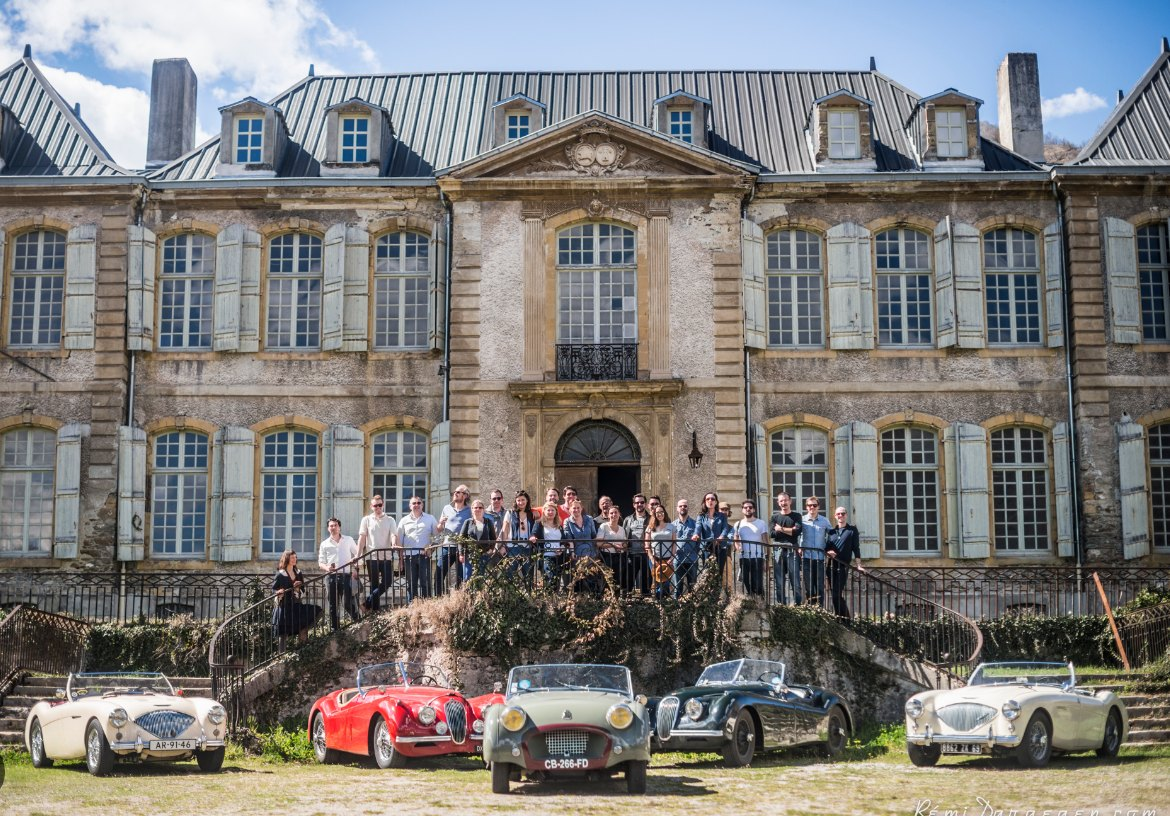
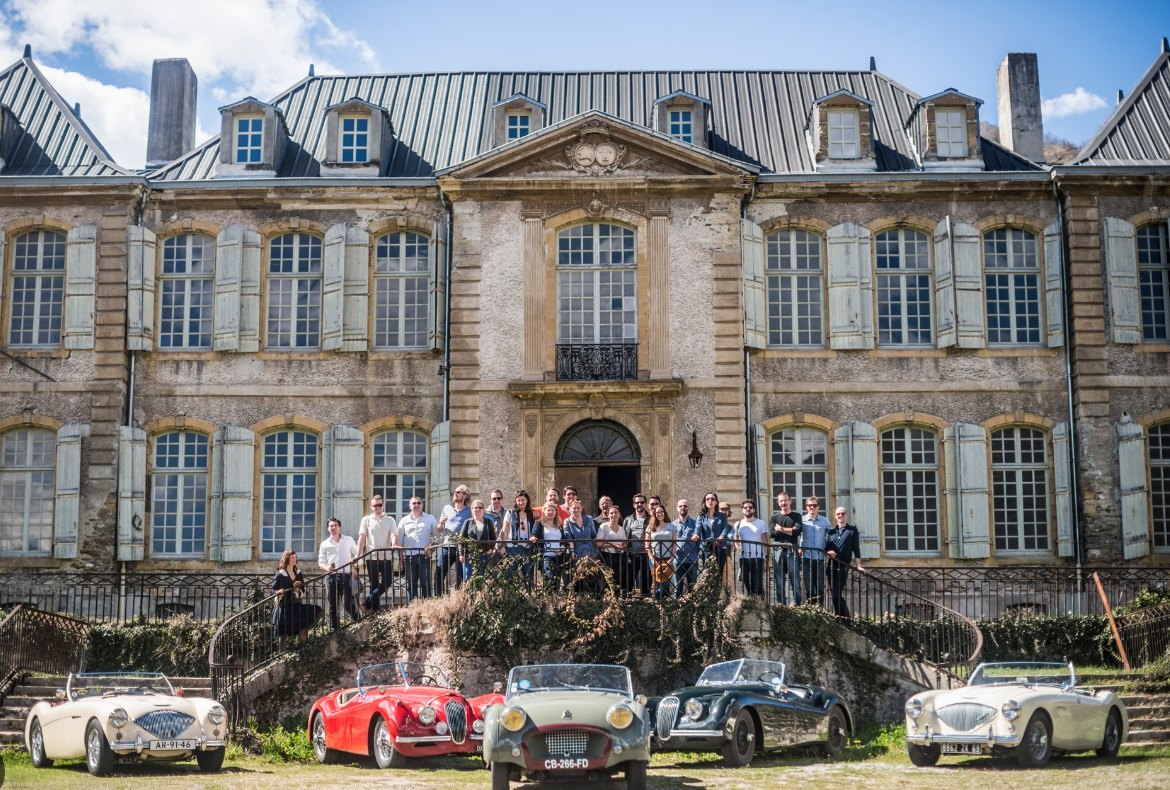
Handover z: How the House Came Back, and the bathrooms quote back
Installed byte for byte from gudanes-handover-z.zip (10 Oct), on top of
handover x; replaces y, never installed. None of these files had changed
since x and the design export. Seven files.

- Restoration: "How the House Came Back", six illustrated steps between
  Why the Walls Stay and Then and Now -- made safe first; power and
  water from the road; the first winter inside (2014, a tent in one of
  the rooms); what the walls gave back; beneath the house; nothing
  thrown away. The timeline gains 2014 and 2020 (the gardens). Sources
  are in a comment above the section.
- _illus.html: a new drawing, "power"; gudanes.css: its styles.
- Home and Stay: the guest quote "Spacious rooms with private,
  well-equipped bathrooms" is back -- the bathrooms are private.
- The room page drops its comment about the terms saying 4pm, fixed in
  the app.
- The classic cars photograph loses the photographer's credit along its
  bottom edge; no credit is needed.

Full run 12836/12836.

diff --git a/templates/restoration.html b/templates/restoration.html
@@ -49,7 +49,9 @@
       <li><b>1741</b><span>The château is built.</span></li>
       <li><b>1994</b><span>Classified a Historic Monument: classé, the highest level of protection in France.</span></li>
       <li><b>2013</b><span>Karina Waters buys it, and the restoration begins.</span></li>
+      <li><b>2014</b><span>The first winter spent inside: no electricity, heating or water yet, and a tent pitched in one of the rooms against the cold.</span></li>
       <li><b>2016</b><span>The restoration receives the Medal of Honour of the Fondation Prince Louis de Polignac, presented by Prince Albert II of Monaco.</span></li>
+      <li><b>2020</b><span>Work begins on bringing back the gardens.</span></li>
       <li><b>Now</b><span>A Class I Historic Monument under restoration, with five bedrooms open to guests, and the workshops.</span></li>
     </ul>
   </div>
@@ -75,6 +77,30 @@
 {#- 9 Oct (owner: "the restoration page need more photos, a better before/after"): three pairs, large and matched, each
     labelled on the photograph. None of the library's pairs is taken from the same spot, so a drag slider would blend two
     different views - side by side is the honest comparison. -#}
+{#- 9 Oct (owner: "more info on the work, from news articles - all new electricity and plumbing from the road and throughout
+    the house, where a large trench was dug"). Sources: the owner (power and water, the trench); Home Beautiful 2024 (the
+    first winter in a tent; the tunnel; the gardens since 2020); Nuvo 2020 (consolidation first; painted walls; wartime
+    hatches; frescoes and ceilings at the back); The Good Life France (trees in the slate); Bird in Flight 2017 (new roof
+    and windows); a guest's account, Molly Wilk (seventeenth-century beams; the table from wind-felled trees); Alex Lalak
+    2024 (doorknobs to roof tiles kept); Studio Beleta (candlelight while the power went in). -#}
+<section class="g-sec g-sec--sand" id="how"><div class="g-wrap">
+  <p class="g-fr">Pas à pas <span class="g-fr__en">Step by step</span></p>
+  <h2 class="g-place">How the House Came Back</h2>
+  <ul class="g-how">
+    {%- for kind, title, text in [
+      ('chateau', 'Made safe first', 'Small trees had taken root in the 300-year-old slate. Before anything else, the floors, walls and ceilings were secured, and the house was given a new roof and new windows.'),
+      ('power', 'Power and water, from the road', 'All the electricity and plumbing is new: brought up from the road through a large trench, then run throughout the house. Until it reached them, many rooms were lit by candle.'),
+      ('bed', 'The first winter inside', 'In the winter of 2014 there was still no electricity, heating or water. The first nights in the château were spent in a tent, pitched inside one of the rooms against the cold.'),
+      ('restoration', 'What the walls gave back', 'Taking away later damage uncovered painted walls; in one bedroom, seventeenth-century painted beams had been plastered over in the eighteenth. At the back of the house were frescoes, ornate ceilings, and the hatches of hiding places used by a family during the Second World War.'),
+      ('candelabra', 'Beneath the house', 'A tunnel runs six metres underground, under a vaulted ceiling; its floor has still not been found. Local legend has an owner escaping down it in a barrel during the War of the Demoiselles, around 1830.'),
+      ('key', 'Nothing thrown away', 'Everything found along the way, from doorknobs to roof tiles, has been kept and used again. A long table was made from trees the wind brought down on the grounds.')] %}
+    <li class="g-how__i">
+      <div class="g-how__ill" aria-hidden="true">{{ illus(kind) }}</div>
+      <div><h3 class="g-how__t">{{ title }}</h3><p class="g-how__d">{{ text }}</p></div>
+    </li>
+    {%- endfor %}
+  </ul>
+</div></section>
 <section class="g-sec g-before-sec" id="before"><div class="g-wrap">
   <p class="g-fr">Avant, après <span class="g-fr__en">Before and now</span></p>
   <h2 class="g-place">Then and Now</h2>

diff --git a/static/gudanes.css b/static/gudanes.css
@@ -10994,3 +10994,12 @@ body.at-top.has-hero .g-top .g-nav a.is-here, body.at-top.has-hero .g-top .g-nav
 .g .g-wscard__inc{ font-size: 14px; }
 .g .g-dossier .g-terms-line, .g .g-dossier .g-foot-note{ font-size: 15px; }
 .g .g-dossier #quote_note, .g .g-dossier .g-quote__l dt .g-opt{ font-size: 14px; }
+
+/* 9 Oct - HOW THE HOUSE CAME BACK (restoration): six illustrated steps, two across on wide screens */
+.g .g-how{ list-style: none; margin: var(--s6) 0 0; padding: 0; display: grid; gap: var(--s6) var(--s7, 56px); }
+@media (min-width: 900px){ .g .g-how{ grid-template-columns: 1fr 1fr; } }
+.g .g-how__i{ display: grid; grid-template-columns: 72px 1fr; gap: var(--s4); align-items: start; }
+.g .g-how__ill{ width: 72px; color: var(--gilt); }
+.g .g-how__t{ margin: .2rem 0 var(--s2); font-family: var(--display); font-weight: 400; font-size: clamp(21px, .5vw + 17px, 25px); line-height: 1.2; color: var(--blue-deep); }
+.g .g-how__d{ margin: 0; font-family: var(--serif); font-size: 17px; line-height: 1.65; color: var(--ink-2); }
+@media (max-width: 600px){ .g .g-how__i{ grid-template-columns: 52px 1fr; gap: var(--s3); } .g .g-how__ill{ width: 52px; } .g .g-how__d{ font-size: 16px; } }

diff --git a/templates/book_rooms.html b/templates/book_rooms.html
@@ -476,10 +476,10 @@
       <figcaption class="g-say__by">A guest<span class="g-say__src">Google</span></figcaption>
     </figure>
     <figure class="g-say">
-      {# Was "Spacious rooms with private, well-equipped bathrooms" - true of that
-         guest's room, but shown as a general claim beside two rooms that share. #}
-      <blockquote class="g-say__q">The breakfast was outstanding, with local produce and fresh fruit.</blockquote>
-      <figcaption class="g-say__by">Cynthia<span class="g-say__src">United States · Booking.com</span></figcaption>
+      {#- 10 Oct (owner, via Code): every room has its own private bathroom, so this quote is true of all five - back in
+          place. Cynthia's breakfast quote stays on the Dining page. -#}
+      <blockquote class="g-say__q">Spacious rooms with private, well-equipped bathrooms</blockquote>
+      <figcaption class="g-say__by">A guest from the Netherlands<span class="g-say__src">Booking.com</span></figcaption>
     </figure>
     <figure class="g-say">
       <blockquote class="g-say__q">After years of careful restoration, the owners brought it back from a ruin. The atmosphere is warm and not spooky at all.</blockquote>

diff --git a/templates/home.html b/templates/home.html
@@ -294,10 +294,10 @@
       <figcaption class="g-say__by">A guest<span class="g-say__src">Google</span></figcaption>
     </figure>
     <figure class="g-say">
-      {# Was "Spacious rooms with private, well-equipped bathrooms" - true of that
-         guest's room, but shown as a general claim beside two rooms that share. #}
-      <blockquote class="g-say__q">The breakfast was outstanding, with local produce and fresh fruit.</blockquote>
-      <figcaption class="g-say__by">Cynthia<span class="g-say__src">United States · Booking.com</span></figcaption>
+      {#- 10 Oct (owner, via Code): every room has its own private bathroom, so this quote is true of all five - back in
+          place. Cynthia's breakfast quote stays on the Dining page. -#}
+      <blockquote class="g-say__q">Spacious rooms with private, well-equipped bathrooms</blockquote>
+      <figcaption class="g-say__by">A guest from the Netherlands<span class="g-say__src">Booking.com</span></figcaption>
     </figure>
     <figure class="g-say">
       <blockquote class="g-say__q">After years of careful restoration, the owners brought it back from a ruin. The atmosphere is warm and not spooky at all.</blockquote>

diff --git a/templates/book_room.html b/templates/book_room.html
@@ -214,7 +214,7 @@
           </div>
           <div class="g-stack g-stack--arrive">
             {#- 5 Oct (owner): an estimated arrival time, with check-in and check-out stated and early check-in on request.
-                Check-in from 2pm (owner, 5 Oct - the terms in app.py still say 4pm), check-out by 11am. Saved in bookings.estimated_arrival_time. -#}
+                Check-in from 2pm, check-out by 11am. Saved in bookings.estimated_arrival_time. -#}
             <p class="g-field g-eta">
               <label for="estimated_arrival_time">Estimated arrival time<span class="g-req" aria-hidden="true">*</span></label>
               {%- set _eta = (prefill_guest or {}).get('estimated_arrival_time') or (request.form.get('estimated_arrival_time') if request.method == 'POST' else '') -%}

diff --git a/templates/_illus.html b/templates/_illus.html
@@ -46,6 +46,11 @@
   <path d="M27 60h38" opacity=".45"/><circle cx="33" cy="54" r="1.4" opacity=".7"/><circle cx="41" cy="54" r="1.4" opacity=".7"/>
   <path d="M70 58q8-4 6-12M76 46q-4-6 2-12" opacity=".45"/>
   <path d="M10 76h76" opacity=".7"/><path d="M14 80h68" opacity=".35"/>
+{#- 9 Oct (owner): power and water brought from the road - a bolt over a trench with a pipe -#}
+{%- elif kind == 'power' %}
+  <path d="M54 10L36 44h13l-6 24 21-36H51l7-22z"/>
+  <path d="M8 74h80" opacity=".7"/><path d="M22 74v11h52V74" opacity=".55"/>
+  <path d="M26 80h44" /><circle cx="48" cy="80" r="2.2" opacity=".7"/>
 {%- elif kind == 'key' %}
   <circle cx="28" cy="48" r="11"/>
   <path d="M28 41a4 4 0 010 14a4 4 0 010-14z" opacity=".7"/><path d="M21 48a4 4 0 0114 0a4 4 0 01-14 0z" opacity=".7"/>
